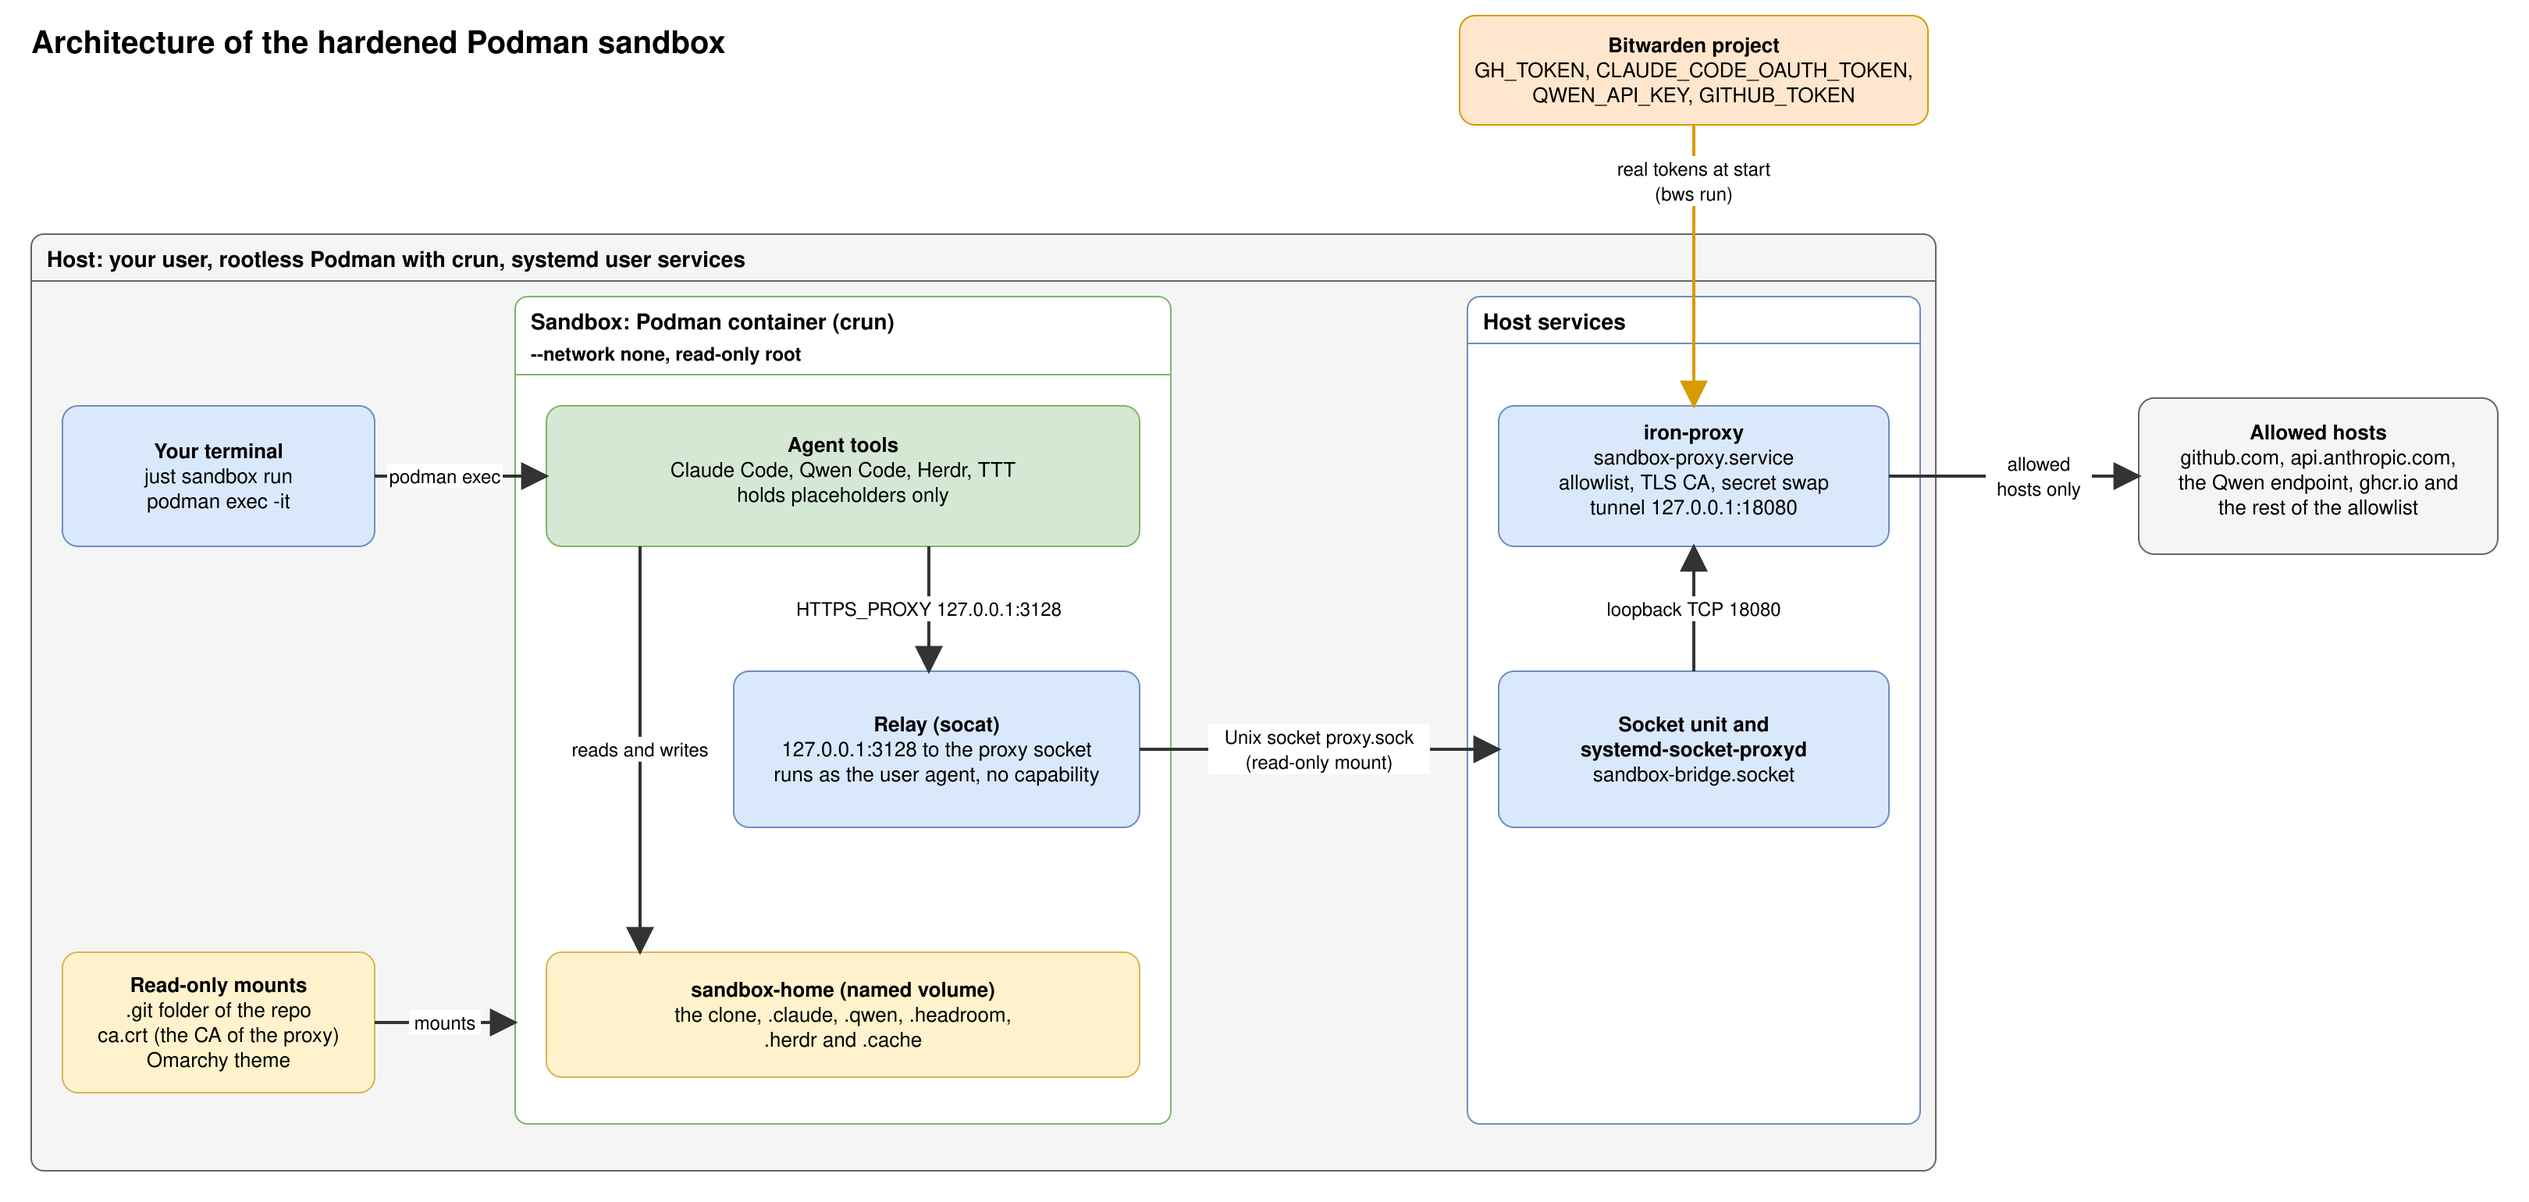
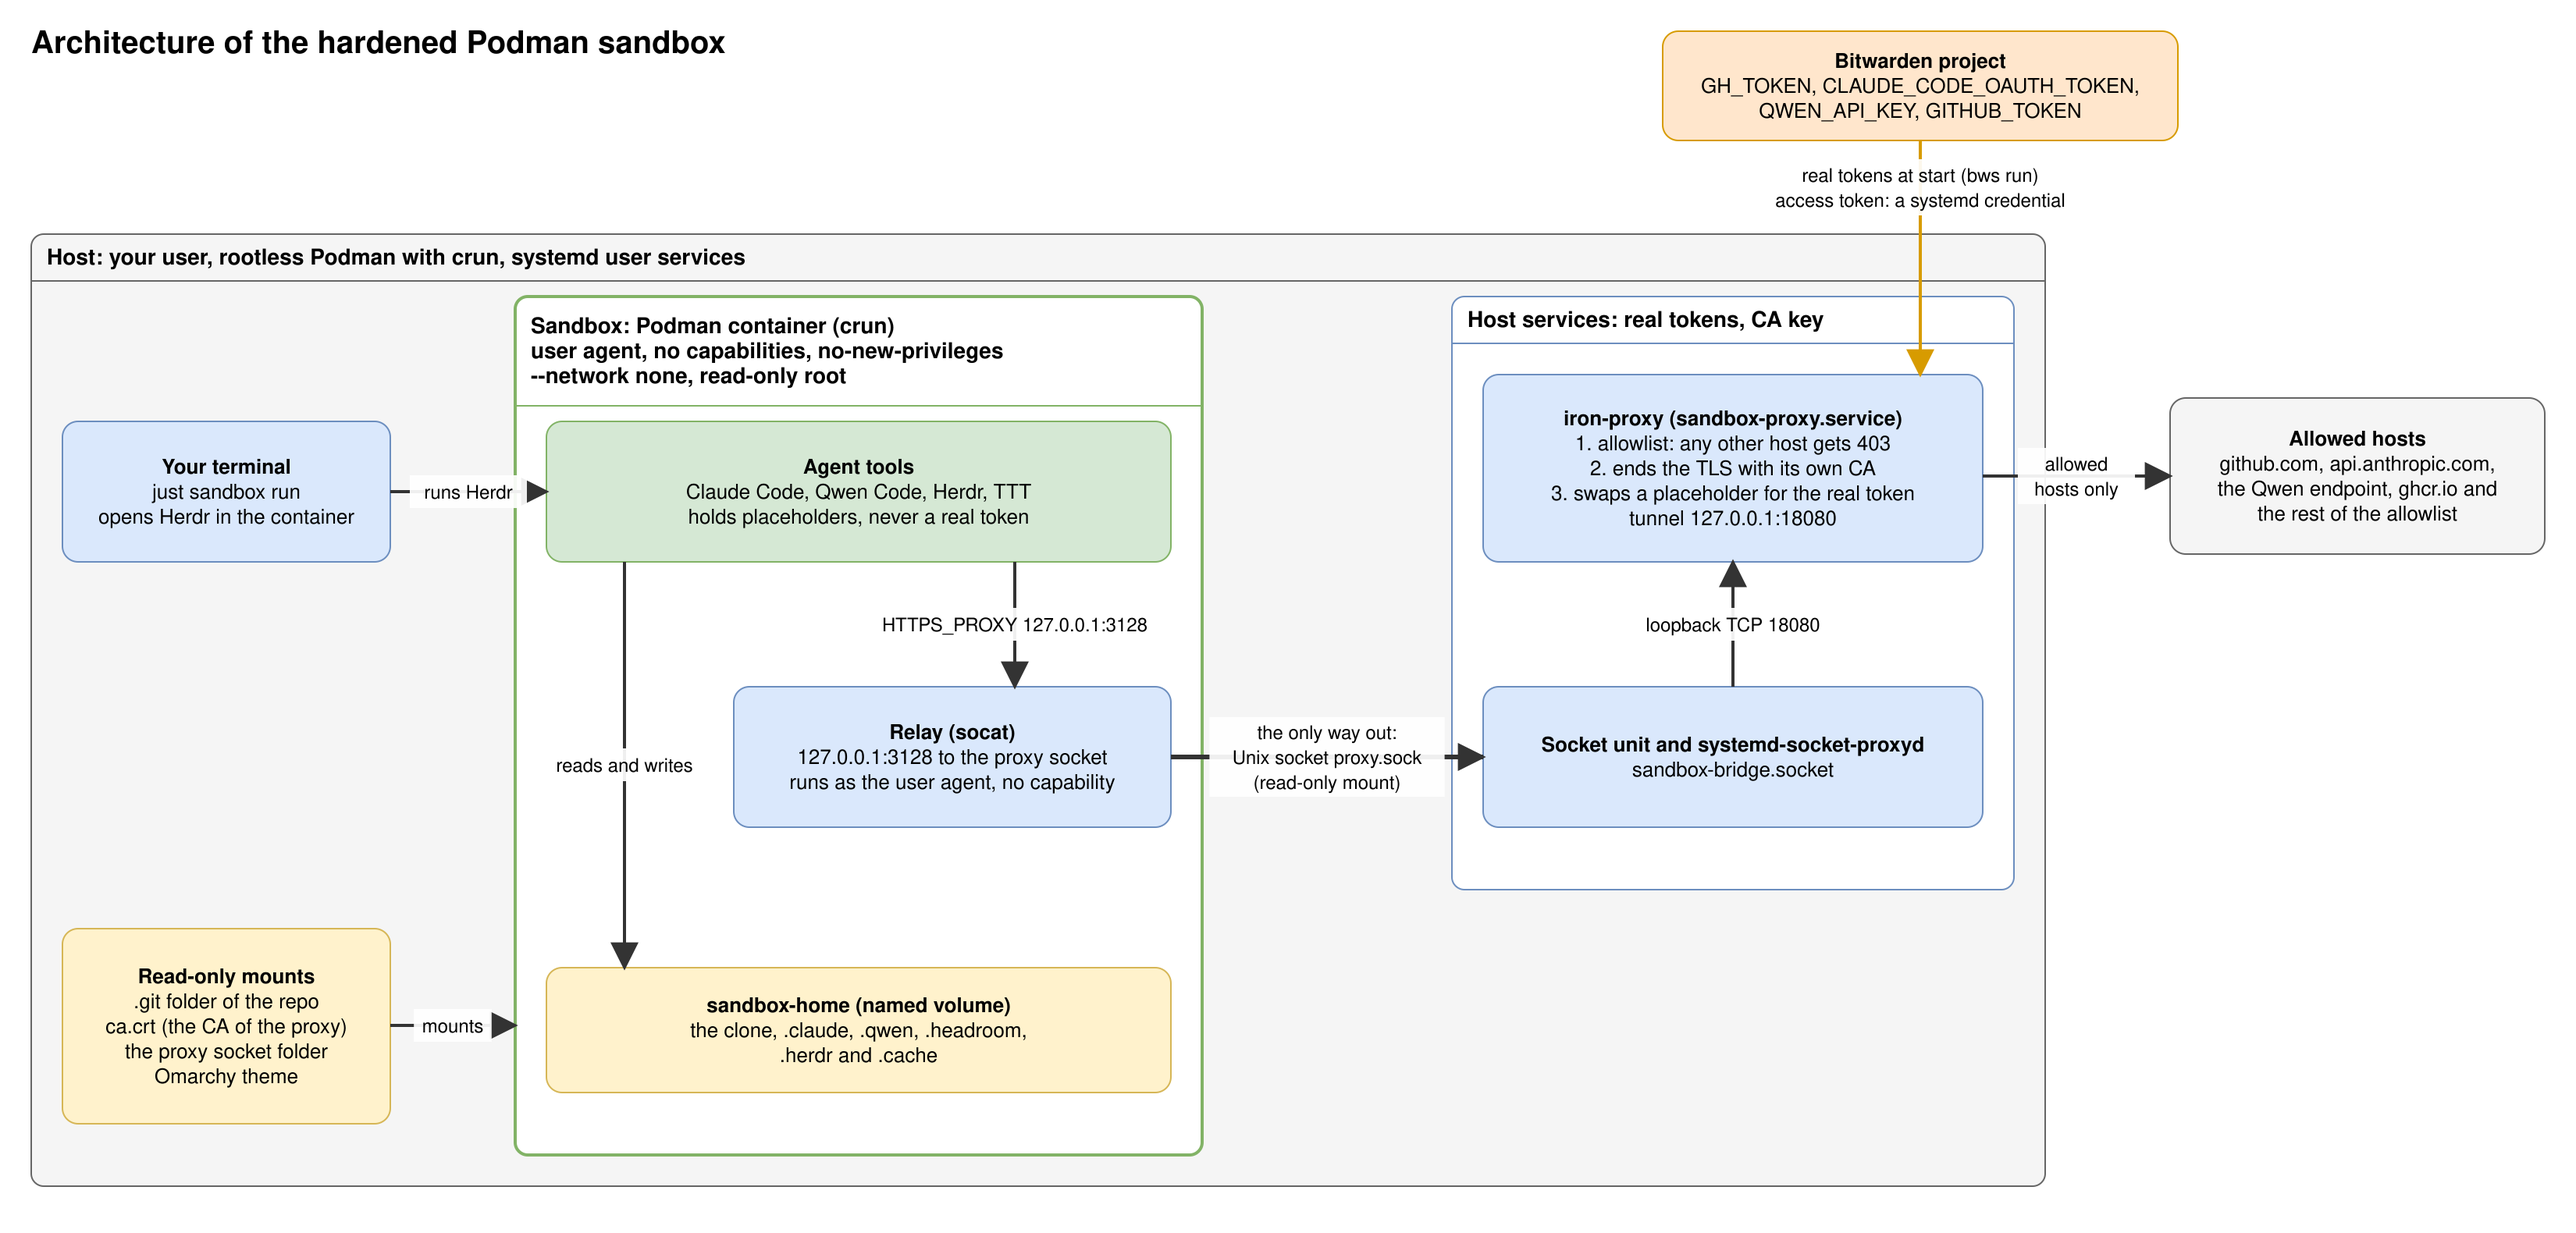
sandbox: show the hardening and the proxy steps in the architecture diagram
The diagram now shows what the sandbox container drops (user agent, no
capabilities, no-new-privileges, --network none, read-only root), the Unix
socket as the only way out, the three steps of iron-proxy (the allowlist, the
TLS CA and the token swap), and that the real tokens and the CA key stay in
the host services. The Bitwarden arrow says that the access token is a systemd
credential. The .drawio, .svg and .png files match.

diff --git a/.sandbox/docs/diagrams/README.md b/.sandbox/docs/diagrams/README.md
@@ -2,7 +2,7 @@
 
 | File | Use |
 |---|---|
-| `architecture.drawio` | The source of the architecture diagram. It shows the host and the sandbox container with its relay and the volume `sandbox-home`. It also shows the Unix socket, the socket unit with `systemd-socket-proxyd`, iron-proxy, the Bitwarden project and the allowed hosts. |
+| `architecture.drawio` | The source of the architecture diagram. It shows the host and the sandbox container with its limits (user `agent`, no capabilities, `--network none`, read-only root), its relay and the volume `sandbox-home`. It shows the Unix socket as the only way out, the socket unit with `systemd-socket-proxyd`, and iron-proxy with its three steps: the allowlist, the TLS CA and the token swap. It also shows the Bitwarden project, the systemd credential and the allowed hosts. |
 | `architecture.svg` | The diagram as a plain SVG: real `<text>` elements, a white background and no `foreignObject`. It is drawn from the coordinates of the `.drawio` file. The export of draw.io wraps each label in `foreignObject` and uses `light-dark()` colors. Many viewers do not draw them. |
 | `architecture.png` | The PNG of the SVG, 2x with a white background. Make it with `rsvg-convert -z 2 -b white architecture.svg -o architecture.png`. |
 
